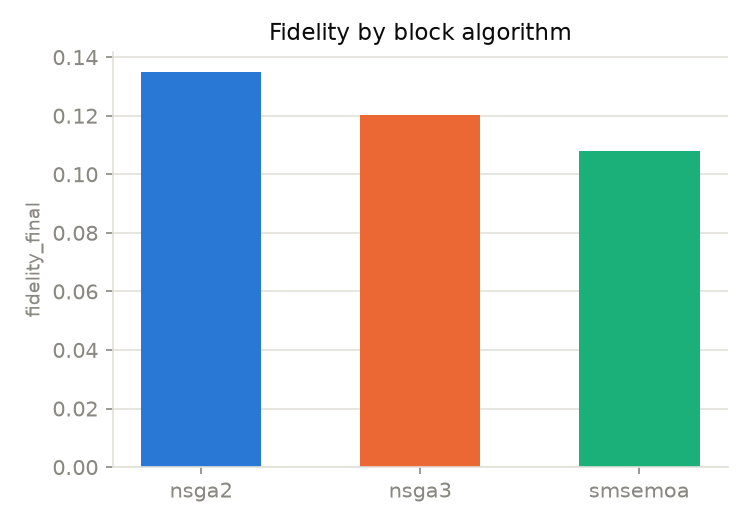
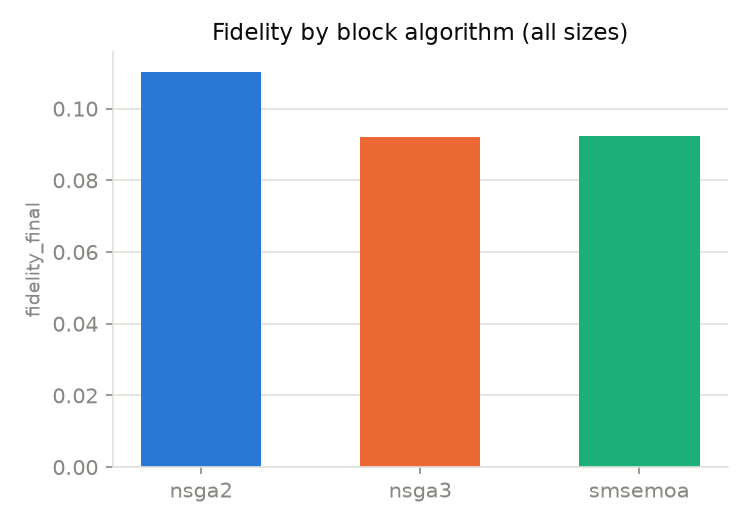
Fix survey overclaims and n=8-only case-study numbers; add all-sizes report
Paper (paper_survey/):
- Drop "State-of-the-art and" from the title.
- Fix overclaims: QMEA excepted from "every method uses NSGA-II crowding
  distance"; "always vs NSGA-II" -> "a classical baseline, usually
  NSGA-II"; remove an unsupported cross-reference and an unsupported
  claim about how the injection bug was found.
- Case-study algorithm table and HV table's pooled row used n=8-only
  values while captioned as the 225-run baseline; replace with true
  all-sizes values, regenerate the three algorithm bar figures, rewrite
  the NSGA-III fair-HV-gap sentence around per-size gaps, correct the
  w_state/qft wall-clock sentence and two rounding slips, and note that
  NSGA-III's cheaper block optimization does not carry over end-to-end.

generate_report.py: ALL_SIZES option for the algorithm-comparison and
fair-HV tables, new algorithm_comparison_all / fair_hv_comparison_all /
algorithm_by_cell tables, all-sizes figures, and --paper-figures-dir to
copy the paper's data-driven figures in one command.

CLAUDE.md / logs.txt / journal.txt: NSGA-III block-opt saving is ~4.5%
post-fix (not ~5-9%); survey draft status brought up to date.

diff --git a/generate_report.py b/generate_report.py
@@ -23,11 +23,14 @@ baseline is reported separately for historical reference.
 Example:
     python generate_report.py
     python generate_report.py --input runs/results_master.csv --out-dir report
+    # also refresh the survey paper's data-driven figures
+    python generate_report.py --paper-figures-dir paper_survey/figures
 """
 from __future__ import annotations
 
 import argparse
 import json
+import shutil
 from pathlib import Path
 
 import matplotlib
@@ -90,16 +93,26 @@ def load_results(path: Path) -> pd.DataFrame:
 # stochastic) -- excluding them here is required, not just a default, or the
 # ablation tables silently pool two different qubit counts into one mean.
 BASELINE_N_QUBITS = 8
+# Pass as n_qubits to the algorithm-comparison/fair-HV tables to pool every size in
+# run_sweep.CIRCUIT_QUBIT_SIZES (each family at its own grid, e.g. qaoa_maxcut tops out
+# at 16, the rest at 20) -- this is the "225-run core baseline" the survey paper's
+# case-study tables/figures report, as opposed to the n=8-only BASELINE_N_QUBITS slice.
+ALL_SIZES = None
+
+
+def _size_mask(df: pd.DataFrame, n_qubits) -> pd.Series:
+    return pd.Series(True, index=df.index) if n_qubits is ALL_SIZES else df["n_qubits"] == n_qubits
 
 
 # ---------------------------------------------------------------------------
 # Tables
 # ---------------------------------------------------------------------------
 
-def table_algorithm_comparison(df: pd.DataFrame, n_qubits: int = BASELINE_N_QUBITS) -> pd.DataFrame:
-    """NSGA-II vs SMS-EMOA vs NSGA-III at baseline settings (point mutation, no hybrid LAS)."""
+def table_algorithm_comparison(df: pd.DataFrame, n_qubits=BASELINE_N_QUBITS) -> pd.DataFrame:
+    """NSGA-II vs SMS-EMOA vs NSGA-III at baseline settings (point mutation, no hybrid LAS).
+    n_qubits=ALL_SIZES pools every qubit count instead of one slice."""
     baseline = df[
-        (df["n_qubits"] == n_qubits)
+        _size_mask(df, n_qubits)
         & (~df["is_legacy_schema"])
         & (df["mutation_scheme"] == "point")
         & (df["hybrid_las"] == False)
@@ -113,6 +126,7 @@ def table_algorithm_comparison(df: pd.DataFrame, n_qubits: int = BASELINE_N_QUBI
         mean_hv=("mean_hv", "mean"),
         total_n_pareto=("total_n_pareto", "mean"),
         wall_clock_s=("wall_clock_s", "mean"),
+        stage_block_optimization_s=("stage_block_optimization_s", "mean"),
     ).reset_index()
     return g
 
@@ -139,7 +153,7 @@ def _normalize_shared(costs: np.ndarray, f_min: np.ndarray, f_max: np.ndarray) -
 
 
 def _pooled_fair_hv_rows(runs_dir: Path, mutation_scheme: str, hybrid_las: bool,
-                          n_qubits: int = BASELINE_N_QUBITS) -> list:
+                          n_qubits=BASELINE_N_QUBITS) -> list:
     """Core fair-HV pooling logic for one (mutation_scheme, hybrid_las) combination --
     returns one row per (circuit, seed, block, block_algorithm), computed from raw
     Pareto-front points (metrics.json's front_raw field, added 2026-08-28 specifically to
@@ -156,18 +170,24 @@ def _pooled_fair_hv_rows(runs_dir: Path, mutation_scheme: str, hybrid_las: bool,
     algorithm's HV against the one shared FAIR_HV_REF_POINT. Shared by all three fair-HV
     tables below (baseline, mutation ablation, hybrid-LAS ablation) -- each just picks
     which (mutation_scheme, hybrid_las) combinations to pool over.
+
+    n_qubits=ALL_SIZES repeats this for each size in that circuit's own
+    run_sweep.CIRCUIT_QUBIT_SIZES entry. Normalization is still shared only within one
+    (circuit, n_qubits, seed, block) -- fronts from different sizes are never pooled
+    together, since their blocks are different objects.
     """
     rows = []
     n_mismatched = 0
     for circuit in FAIR_HV_CIRCUITS:
-        for seed in range(FAIR_HV_N_SEEDS):
+        sizes = _run_sweep.CIRCUIT_QUBIT_SIZES[circuit] if n_qubits is ALL_SIZES else [n_qubits]
+        for n, seed in ((n, s) for n in sizes for s in range(FAIR_HV_N_SEEDS)):
             per_algo_blocks = {}
             fidelity_settings = (
-                _run_sweep.CIRCUIT_FIDELITY_SETTINGS.get(circuit, {}) if n_qubits > 13 else {}
+                _run_sweep.CIRCUIT_FIDELITY_SETTINGS.get(circuit, {}) if n > 13 else {}
             )
             for algo in FAIR_HV_ALGORITHMS:
                 run_id = _run_sweep.run_id_for({
-                    "circuit": circuit, "n_qubits": n_qubits, "injection_method": "stochastic",
+                    "circuit": circuit, "n_qubits": n, "injection_method": "stochastic",
                     "block_algorithm": algo, "mutation_scheme": mutation_scheme,
                     "hybrid_las": hybrid_las, "generations": 100, "pop_size": 100, "seed": seed,
                     "fidelity_exact_threshold": None, "injection_fidelity_exact_threshold": None,
@@ -197,7 +217,8 @@ def _pooled_fair_hv_rows(runs_dir: Path, mutation_scheme: str, hybrid_las: bool,
                 f_min, f_max = pooled.min(axis=0), pooled.max(axis=0)
                 for algo, costs in per_algo_costs.items():
                     hv = _PymooHV(ref_point=FAIR_HV_REF_POINT)(_normalize_shared(costs, f_min, f_max))
-                    rows.append({"circuit": circuit, "seed": seed, "block": b, "block_algorithm": algo,
+                    rows.append({"circuit": circuit, "n_qubits": n, "seed": seed, "block": b,
+                                 "block_algorithm": algo,
                                  "mutation_scheme": mutation_scheme, "hybrid_las": hybrid_las, "fair_hv": hv})
     if n_mismatched:
         print(f"⚠ fair_hv pooling (mutation_scheme={mutation_scheme}, hybrid_las={hybrid_las}): "
@@ -209,18 +230,46 @@ def _aggregate_fair_hv(rows: list, group_cols: list) -> pd.DataFrame:
     detail = pd.DataFrame(rows)
     if detail.empty:
         return pd.DataFrame(columns=group_cols + ["n_runs", "fair_mean_hv"])
-    per_run = detail.groupby(["circuit", "seed"] + group_cols)["fair_hv"].mean().reset_index()
+    run_keys = ["circuit", "n_qubits", "seed"]
+    per_run = detail.groupby(run_keys + [c for c in group_cols if c not in run_keys])["fair_hv"].mean().reset_index()
     return per_run.groupby(group_cols).agg(
         n_runs=("fair_hv", "count"),
         fair_mean_hv=("fair_hv", "mean"),
     ).reset_index()
 
 
-def table_fair_hv_comparison(runs_dir: Path, n_qubits: int = BASELINE_N_QUBITS) -> pd.DataFrame:
+def table_fair_hv_comparison(runs_dir: Path, n_qubits=BASELINE_N_QUBITS) -> pd.DataFrame:
     """Fair (shared fixed reference point) hypervolume at the baseline settings --
     mirrors table_algorithm_comparison's filter, see _pooled_fair_hv_rows' docstring."""
     rows = _pooled_fair_hv_rows(runs_dir, mutation_scheme="point", hybrid_las=False, n_qubits=n_qubits)
     return _aggregate_fair_hv(rows, ["block_algorithm"])
+
+
+def table_algorithm_by_cell(df: pd.DataFrame, runs_dir: Path) -> pd.DataFrame:
+    """Per (circuit, n_qubits, block_algorithm) cell of the all-sizes baseline: mean
+    fidelity_final, block-optimization wall-clock, adaptive and fair HV, plus which
+    algorithm wins each circuit x size cell on fidelity -- the per-cell numbers behind the
+    survey paper's "cells won" column, NSGA-III-vs-NSGA-II wall-clock comparison, and
+    per-size fair-HV gap."""
+    baseline = df[
+        (~df["is_legacy_schema"])
+        & (df["mutation_scheme"] == "point")
+        & (df["hybrid_las"] == False)
+        & (df["injection_method"] == "stochastic")
+    ]
+    keys = ["circuit", "n_qubits", "block_algorithm"]
+    g = baseline.groupby(keys).agg(
+        n_runs=("run_id", "count"),
+        fidelity_final=("fidelity_final", "mean"),
+        stage_block_optimization_s=("stage_block_optimization_s", "mean"),
+        mean_hv=("mean_hv", "mean"),
+    ).reset_index()
+    fair = _aggregate_fair_hv(
+        _pooled_fair_hv_rows(runs_dir, mutation_scheme="point", hybrid_las=False, n_qubits=ALL_SIZES), keys)
+    g = g.merge(fair.drop(columns="n_runs"), on=keys, how="left")
+    best = g.groupby(["circuit", "n_qubits"])["fidelity_final"].transform("max")
+    g["wins_fidelity_cell"] = g["fidelity_final"] == best
+    return g.sort_values(keys)
 
 
 def table_fair_hv_mutation_ablation(runs_dir: Path, n_qubits: int = BASELINE_N_QUBITS) -> pd.DataFrame:
@@ -406,6 +455,10 @@ def main(argv=None):
                     help="Used only by the fair-HV tables (table_fair_hv_comparison/"
                          "_mutation_ablation/_hybrid_las_ablation), which read metrics.json "
                          "files directly for their raw Pareto-front points.")
+    p.add_argument("--paper-figures-dir", default=None, type=Path,
+                    help="If set (e.g. paper_survey/figures), also copy the all-sizes algorithm "
+                         "figures and the scaling figures there under the file names the survey "
+                         "paper's \\includegraphics calls use (see PAPER_FIGURES).")
     args = p.parse_args(argv)
 
     if not args.input.exists():
@@ -421,6 +474,11 @@ def main(argv=None):
     tables = {
         "algorithm_comparison": table_algorithm_comparison(df),
         "fair_hv_comparison": table_fair_hv_comparison(args.runs_dir),
+        # All-sizes pooled versions (every family at its own run_sweep.CIRCUIT_QUBIT_SIZES
+        # grid) -- what the survey paper's case-study tables/figures report.
+        "algorithm_comparison_all": table_algorithm_comparison(df, n_qubits=ALL_SIZES),
+        "fair_hv_comparison_all": table_fair_hv_comparison(args.runs_dir, n_qubits=ALL_SIZES),
+        "algorithm_by_cell": table_algorithm_by_cell(df, args.runs_dir),
         # n=12 algorithm comparison (added alongside n=12 mutation/hybrid-LAS coverage,
         # see logs.txt's "SCALING VERIFICATION: NSGA-III/SMS-EMOA AT n=12 AND FAMILY
         # CEILINGS" -- these numbers previously only existed as a hand-built table there).
@@ -473,6 +531,16 @@ def main(argv=None):
         fair_hv = tables["fair_hv_comparison"].set_index("block_algorithm")["fair_mean_hv"]
         fig_bar(fair_hv, title="Hypervolume (fair: shared fixed reference point)",
                 ylabel="fair_mean_hv", out_path=figures_dir / "algorithm_hypervolume_fair.png")
+
+    algo_all = tables["algorithm_comparison_all"].set_index("block_algorithm")
+    fig_bar(algo_all["fidelity_final"], title="Fidelity by block algorithm (all sizes)",
+            ylabel="fidelity_final", out_path=figures_dir / "algorithm_fidelity_all.png")
+    fig_bar(algo_all["mean_hv"], title="Hypervolume (adaptive per-run reference --\nnot comparable across algorithms)",
+            ylabel="mean_hv", out_path=figures_dir / "algorithm_hypervolume_adaptive_all.png")
+    if not tables["fair_hv_comparison_all"].empty:
+        fair_hv_all = tables["fair_hv_comparison_all"].set_index("block_algorithm")["fair_mean_hv"]
+        fig_bar(fair_hv_all, title="Hypervolume (fair: shared fixed reference point)",
+                ylabel="fair_mean_hv", out_path=figures_dir / "algorithm_hypervolume_fair_all.png")
 
     algo_n12 = tables["algorithm_comparison_n12"].set_index("block_algorithm")
     if not algo_n12.empty:
@@ -545,7 +613,25 @@ def main(argv=None):
 
     print(f"✅ Wrote {len(tables)} tables -> {tables_dir}/ (+ summary.md)")
     print(f"✅ Wrote {len(list(figures_dir.glob('*.png')))} figures -> {figures_dir}/")
+
+    if args.paper_figures_dir is not None:
+        args.paper_figures_dir.mkdir(parents=True, exist_ok=True)
+        for src, dst in PAPER_FIGURES.items():
+            shutil.copyfile(figures_dir / src, args.paper_figures_dir / dst)
+        print(f"📎 Copied {len(PAPER_FIGURES)} figures -> {args.paper_figures_dir}/")
     return 0
+
+
+# report/figures/ name -> survey paper (paper_survey/figures/) name. The paper's other
+# figures (circuit drawings, interaction graph, MOO evolution) come from pipeline runs,
+# not from this script.
+PAPER_FIGURES = {
+    "algorithm_fidelity_all.png": "algorithm_fidelity.png",
+    "algorithm_hypervolume_adaptive_all.png": "algorithm_hypervolume_adaptive.png",
+    "algorithm_hypervolume_fair_all.png": "algorithm_hypervolume_fair.png",
+    "scaling_fidelity.png": "scaling_fidelity.png",
+    "scaling_wallclock.png": "scaling_wallclock.png",
+}
 
 
 if __name__ == "__main__":

diff --git a/paper_survey/sections/05_critical_analysis.tex b/paper_survey/sections/05_critical_analysis.tex
@@ -50,7 +50,8 @@ interference, entanglement) framing common in this literature's
 introductions would suggest.
 
 \textbf{Selection and diversity mechanism.} Every method in the
-surveyed set with a confirmed selection mechanism inherits NSGA-II's
+surveyed set with a confirmed selection mechanism, apart from the early
+QMEA's direct Pareto ranking~\citep{kim2006qmea}, inherits NSGA-II's
 crowding distance unmodified
 (Section~\ref{sec:taxonomy:selection}), and none pairs the Q-bit
 representation with NSGA-III's reference-point niching, SPEA2's
@@ -82,8 +83,9 @@ than only its observed bit value). A second, related weakness is
 evaluative rather than architectural: as already noted from
 Table~\ref{tab:feature-comparison-performance}
 (Section~\ref{sec:feature-comparison}), every reported performance claim
-in the surveyed set compares the proposed method against a classical
-NSGA-II baseline, and no two of the surveyed QIEA-MOO methods are
+in the surveyed set that we could confirm compares the proposed method
+against a classical baseline -- NSGA-II in most cases, conventional
+planning approaches in \citet{kumar2026eahqnsga2}'s case -- and no two of the surveyed QIEA-MOO methods are
 benchmarked against each other in the sources gathered for this
 survey; only \citet{olvera2023continuous} compare several QIEA-MOO
 variants side by side, and those are variants the authors themselves
@@ -137,10 +139,9 @@ benchmarking. This survey's own case study offers
 a cautionary illustration of how easily such gaps can hide even inside
 a codebase under active, careful maintenance: two real bugs in its
 inter-block gate injection stage silently distorted every quantitative
-fidelity result reported over several weeks of work, and were only
-caught and fixed once the pipeline's output was checked against a
-specific, otherwise-unremarkable circuit family
-(Section~\ref{sec:case-study:pipeline}). If a reproducibility gap of
+fidelity result reported over several weeks of work before they were
+caught and fixed (Section~\ref{sec:case-study:pipeline}). If a
+reproducibility gap of
 that kind can persist for weeks inside one actively-maintained pipeline
 with its own test suite, the equivalent risk across independently
 authored papers with no shared code and no obligation to re-verify a
@@ -148,8 +149,9 @@ predecessor's numbers before building on them is considerably harder to
 rule out, not easier.
 
 \textbf{Weak benchmarking practices.} The self-comparative-only pattern
-already noted under hybridization above -- every method benchmarked
-against NSGA-II, never against a sibling QIEA-MOO method -- is itself an
+already noted under hybridization above -- methods benchmarked against
+a classical baseline, usually NSGA-II, but not against a sibling
+QIEA-MOO method -- is itself an
 instance of a broader benchmarking weakness: comparisons in this
 literature are typically run against one baseline, on one problem or
 instance, without the kind of multi-seed statistical treatment that
@@ -203,9 +205,9 @@ surfaces a second, sharper instance of the same point: mean
 \texttt{fidelity\_final} \emph{declines} with qubit count for four of
 the five circuit families tested (e.g.\ \texttt{qft}: 0.070 at $n{=}8$,
 0.015 at $n{=}12$, 0.0005 at $n{=}20$; \texttt{hw\_efficient\_ansatz}:
-0.098, 0.020, 0.0004 over the same sizes), while the fifth,
+0.098, 0.020, 0.0003 over the same sizes), while the fifth,
 \texttt{weak\_random}, instead \emph{improves} with qubit count (0.225,
-0.363, 0.375), as Figure~\ref{fig:scaling-fidelity} shows directly. A
+0.362, 0.375), as Figure~\ref{fig:scaling-fidelity} shows directly. A
 single-scale evaluation of any one of these families
 -- exactly the evaluative pattern this subsection has already flagged
 as the norm in the QIEA-MOO literature surveyed above -- would report
@@ -214,8 +216,7 @@ problem instances, let alone across algorithms. We do not attempt to
 adjudicate here whether the declining trend reflects a genuine scaling
 limitation of the pipeline or simply the exact fidelity metric's own
 well-known exponential contraction toward zero for two generically
-different unitaries as $n$ grows
-(Section~\ref{sec:background:quantum}) -- distinguishing the two is
+different unitaries as $n$ grows -- distinguishing the two is
 exactly the kind of question the separate, forthcoming empirical
 results paper is responsible for answering, not this survey.
 

diff --git a/paper_survey/sections/06_case_study.tex b/paper_survey/sections/06_case_study.tex
@@ -196,7 +196,13 @@ implementation defaulting to a cheaper non-dominated-sorting routine
 than the crowding-distance and hand-rolled hypervolume-driven selections
 use -- an implementation detail of this pipeline's current software
 stack, not a general claim that NSGA-III is more efficient than
-NSGA-II as algorithms. This distinction matters because an earlier
+NSGA-II as algorithms. Nor does it carry over to end-to-end cost: mean
+total wall-clock per run is roughly 1.9 times \emph{higher} for NSGA-III
+than for NSGA-II (331s vs.\ 176s; SMS-EMOA 124s), almost entirely
+because of the stages after block optimization on two families at
+$n{=}20$ (\texttt{hw\_efficient\_ansatz} and \texttt{w\_state}), where
+the circuits NSGA-III hands downstream turn out more expensive to
+process. This distinction matters because an earlier
 measurement in this same project once suggested a much larger, roughly
 two-fold advantage for NSGA-III; closer, fresher re-measurement showed
 that figure to be a stale-versus-fresh timing artifact rather than a
@@ -223,9 +229,9 @@ others, only better positioned to catch it once measured twice.
     Per-block optimizer & Mean fidelity\_final & Cells won (/15) &
     Mean block-opt.\ wall-clock (s) & Mean fair HV \\
     \midrule
-    NSGA-II   & 0.135 & 13 & 42.78 & 0.815 \\
-    NSGA-III  & 0.120 & 1  & 40.85 & 0.763 \\
-    SMS-EMOA  & 0.108 & 1  & 43.88 & 0.808 \\
+    NSGA-II   & 0.110 & 13 & 42.78 & 0.808 \\
+    NSGA-III  & 0.092 & 1  & 40.85 & 0.729 \\
+    SMS-EMOA  & 0.092 & 1  & 43.88 & 0.788 \\
     \bottomrule
   \end{tabularx}
 \end{table}
@@ -302,7 +308,7 @@ before computing hypervolume.
     \cmidrule(lr){2-4} \cmidrule(lr){5-7}
     Scale slice & NSGA-II & NSGA-III & SMS-EMOA & NSGA-II & NSGA-III & SMS-EMOA \\
     \midrule
-    All 5 families, all sizes pooled & 0.052 & 0.046 & 0.060 & 0.815 & 0.763 & 0.808 \\
+    All 5 families, all sizes pooled & 0.048 & 0.045 & 0.055 & 0.808 & 0.729 & 0.788 \\
     All 5 families, $n{=}12$ (matched) & 0.050 & 0.045 & 0.054 & 0.812 & 0.736 & 0.808 \\
     \texttt{qaoa\_maxcut} only, its own $n{=}16$ ceiling & 0.024 & 0.030 & 0.028 & 0.810 & 0.593 & 0.739 \\
     \bottomrule
@@ -320,11 +326,11 @@ NSGA-III above SMS-EMOA above NSGA-II -- not a strict reversal of the
 pooled order (SMS-EMOA and NSGA-II swap places relative to a true
 reversal), but NSGA-III still moves from worst to best.
 Fair HV, by contrast, ranks NSGA-II above SMS-EMOA above NSGA-III
-consistently across all three slices, and NSGA-III's disadvantage under
-fair HV widens as problem size grows within a matched comparison (0.763
-pooled, 0.736 at the $n{=}12$ slice matched across all five families,
-0.593 at \texttt{qaoa\_maxcut}'s own $n{=}16$ ceiling) rather than
-narrowing. This is a direct, current demonstration of the risk the
+consistently across all three slices, and NSGA-III's fair-HV gap to
+NSGA-II widens rather than narrows as problem size grows: 0.052 at
+$n{=}8$ and 0.076 at $n{=}12$ (both matched across all five families),
+0.084 at $n{=}20$ (the four families that reach it), and widest, 0.217,
+at \texttt{qaoa\_maxcut}'s own $n{=}16$ ceiling. This is a direct, current demonstration of the risk the
 adaptive-versus-fair distinction warns about: an algorithm-comparison
 conclusion drawn from adaptive HV alone would not just be
 questionable in the abstract, it would flip depending on which slice of

diff --git a/paper_survey/sections/04_feature_comparison.tex b/paper_survey/sections/04_feature_comparison.tex
@@ -177,9 +177,11 @@ returns to.
 
 Read across both tables, two patterns stand out even before the
 critical analysis proper (Section~\ref{sec:critical-analysis}). First,
-every method with a confirmed selection mechanism reuses NSGA-II's
-crowding distance unmodified (Table~\ref{tab:feature-comparison-taxonomy}),
-so any complexity or scalability claim that does exist is really a
+every method with a confirmed selection mechanism other than the early
+QMEA, whose direct Pareto ranking predates the NSGA-II-hybrid
+convention, reuses NSGA-II's crowding distance unmodified
+(Table~\ref{tab:feature-comparison-taxonomy}), so any complexity or
+scalability claim that does exist for those methods is really a
 claim about NSGA-II's own well-studied $O(MN^2)$ non-dominated-sorting
 cost~\citep{deb2002nsga2} plus a low-order quantum-operator overhead --
 none of the surveyed methods has been evaluated against a

diff --git a/paper_survey/sections/07_open_challenges.tex b/paper_survey/sections/07_open_challenges.tex
@@ -120,7 +120,8 @@ Figure~\ref{fig:scaling-wallclock} shows why this remains an open cost
 rather than a solved one: total wall-clock time grows sharply with
 qubit count for four of the five circuit families -- most steeply for
 \texttt{hw\_efficient\_ansatz} (roughly 22s at $n{=}8$ to over 1{,}000s
-at $n{=}20$) and \texttt{qft}, more gently for \texttt{weak\_random} --
+at $n{=}20$) and \texttt{w\_state} (roughly 25s to 900s), more gently
+for \texttt{qft} and \texttt{weak\_random} --
 while \texttt{qaoa\_maxcut} is non-monotonic (26s, 75s, 43s at $n{=}8$,
 $12$, and its own $n{=}16$ ceiling respectively), plausibly an artifact
 of the statevector-backend fidelity settings that

diff --git a/paper_survey/main.tex b/paper_survey/main.tex
@@ -16,8 +16,8 @@
 % tables exactly \textwidth-aligned instead of overflowing the margin.
 \newcolumntype{Y}{>{\centering\arraybackslash}X}
 
-\title{State-of-the-art and Critical Analysis of Quantum-Inspired\\
-Evolutionary Algorithms for Multi-Objective Optimization:\\
+\title{Critical Analysis of Quantum-Inspired Evolutionary Algorithms\\
+for Multi-Objective Optimization:\\
 Taxonomy, Features, and Limitations}
 \author{Olivian-Antonio G\^{\i}lea \and Adrian Florea}
 \date{\today}

diff --git a/CLAUDE.md b/CLAUDE.md
@@ -71,7 +71,7 @@ The full optimization pipeline (`optimise_circuit_pipeline`) is the reference im
 1. **Partitioning** — `louvain_partition` builds a qubit-interaction graph (`build_interaction_graph`, weighted by 2-qubit gate count) and applies Louvain community detection to split qubits into blocks. `multilevel_partition` offers a Metis/Kernighan-Lin recursive alternative for bounding block size. `extract_interblock_gates` captures gates that cross block boundaries so they can be reinjected later.
 2. **Sub-circuit extraction / recomposition** — `extract_subcircuit` pulls out a self-contained, locally-reindexed circuit per block; `recompose_from_blocks` stitches optimized block circuits back into a global circuit in original gate order, preserving inter-block gates unchanged.
 3. **Fidelity metric** — `compute_fidelity` computes the exact operator-overlap fidelity `|Tr(U_circ · U_target^†)| / 2^n` (dense `Operator`, intractable much past ~13 qubits). `safe_fidelity_between_circuits` is the scale-aware version actually used through most of the pipeline: exact below `fidelity_exact_threshold` (default 13), otherwise an approximate Monte-Carlo estimate — either `approximate_gate_fidelity_echo_mc` ("echo-test": same overlap quantity as an older SWAP-test formulation but computed on `n` qubits instead of `2n+1`, no CSWAP-induced entanglement, `--fidelity-echo-*` flags) or, opt-in per circuit family via `approximate_backend`/`--fidelity-approximate-backend`, `approximate_gate_fidelity_statevector_mc` (exact per-sample, no shot noise; much faster for highly-entangled circuits like `qaoa_maxcut`, much slower than the MPS-based echo estimator for low-entanglement families). No backend is auto-selected — pick one per circuit family, same as `injection_method`/`block_algorithm`/`mutation_scheme` below. See `logs.txt`'s "SCALING" section for the full tuning history and current per-family qubit ceilings.
-4. **Intra-block optimization** — pluggable per-block optimizer, selected via `block_algorithm` and dispatched through the `BLOCK_OPTIMIZERS` registry dict (keyed by algorithm name): `optimise_block_nsga2` (DEAP NSGA-II, three objectives: maximize fidelity, minimize transpiled depth, minimize chromosome-length cost), `optimise_block_smsemoa` (hypervolume-driven SMS-EMOA — binary tournament by Pareto rank, environmental selection trims the boundary front by least-hypervolume-loss; hand-rolled in the existing DEAP loop rather than pymoo's `SMSEMOA`, by deliberate choice), and `optimise_block_nsga3` (DEAP's built-in `tools.selNSGA3` reference-point selection, Deb & Jain 2014 — deliberately reuses DEAP's tested implementation rather than the independently hand-rolled version in `NSGA-III/AG_multi_objectifs_NSGA3.ipynb`, whose own point was a from-scratch correctness demonstration, not a block-optimizer candidate). Adding a further MOO algorithm here is: write a function matching the same signature and add one entry to `BLOCK_OPTIMIZERS` — `optimise_circuit_pipeline`'s dispatch, `run_experiment.py`'s `--block-algorithm` choices, and `run_sweep.py`'s `--block-algorithms` choices all key off that registry (the last one can't import it directly — see its own comment — so its choices list needs a matching one-line addition). All three take a `mutation_scheme` (`"point"` / `"swap_add"` / `"swap_add_delete"`, via `mut_swap`/`mut_addition`/`mut_deletion` — the swap schemes make chromosomes variable-length) and an optional `hybrid_las` flag that runs `update_rotation_angles` ("LAS", a finite-difference local search on rotation angles) on the GA's winner afterward. See `logs.txt`'s "CURRENT STATUS OF RESULTS" section for what's currently established: on the post-injection-fix 225-run baseline, `nsga2` reaches the highest `fidelity_final` in most circuit × size cells; `nsga3`'s block-optimization stage is ~5–9% cheaper than `nsga2`'s (an artifact of DEAP's `selNSGA3` defaulting to a cheaper non-dominated sort, not a general NSGA-III efficiency claim — an earlier "half the wall-clock" headline was a measurement artifact and is retracted). The mutation-scheme and hybrid-LAS ablations predate the 2026-09-04 injection-stage bug fix and are superseded until re-run.
+4. **Intra-block optimization** — pluggable per-block optimizer, selected via `block_algorithm` and dispatched through the `BLOCK_OPTIMIZERS` registry dict (keyed by algorithm name): `optimise_block_nsga2` (DEAP NSGA-II, three objectives: maximize fidelity, minimize transpiled depth, minimize chromosome-length cost), `optimise_block_smsemoa` (hypervolume-driven SMS-EMOA — binary tournament by Pareto rank, environmental selection trims the boundary front by least-hypervolume-loss; hand-rolled in the existing DEAP loop rather than pymoo's `SMSEMOA`, by deliberate choice), and `optimise_block_nsga3` (DEAP's built-in `tools.selNSGA3` reference-point selection, Deb & Jain 2014 — deliberately reuses DEAP's tested implementation rather than the independently hand-rolled version in `NSGA-III/AG_multi_objectifs_NSGA3.ipynb`, whose own point was a from-scratch correctness demonstration, not a block-optimizer candidate). Adding a further MOO algorithm here is: write a function matching the same signature and add one entry to `BLOCK_OPTIMIZERS` — `optimise_circuit_pipeline`'s dispatch, `run_experiment.py`'s `--block-algorithm` choices, and `run_sweep.py`'s `--block-algorithms` choices all key off that registry (the last one can't import it directly — see its own comment — so its choices list needs a matching one-line addition). All three take a `mutation_scheme` (`"point"` / `"swap_add"` / `"swap_add_delete"`, via `mut_swap`/`mut_addition`/`mut_deletion` — the swap schemes make chromosomes variable-length) and an optional `hybrid_las` flag that runs `update_rotation_angles` ("LAS", a finite-difference local search on rotation angles) on the GA's winner afterward. See `logs.txt`'s "CURRENT STATUS OF RESULTS" section for what's currently established: on the post-injection-fix 225-run baseline, `nsga2` reaches the highest `fidelity_final` in most circuit × size cells; `nsga3`'s block-optimization stage is ~4.5% cheaper than `nsga2`'s overall (cheaper in 14 of 15 cells, by ~1–12%; an artifact of DEAP's `selNSGA3` defaulting to a cheaper non-dominated sort, not a general NSGA-III efficiency claim — an earlier "half the wall-clock" headline was a measurement artifact and is retracted). The mutation-scheme and hybrid-LAS ablations predate the 2026-09-04 injection-stage bug fix and are superseded until re-run.
 5. **Inter-block gate injection** — re-adds cross-block entanglement lost during block-local optimization. Two interchangeable strategies selected via `injection_method`: `sa_injection` (simulated annealing over an energy combining gate count, depth, crosstalk, fidelity penalty) or `stochastic_injection` (random trial-and-keep-if-fidelity-improves) — both have closed-form/incremental fidelity fast paths now (see `logs.txt` "SCALING"). The existing sa-vs-stochastic comparison predates the 2026-09-04 injection-stage bug fix and is superseded until re-run, so don't cite either as cheaper/better yet. All three injection functions pick candidate block pairs via `_rand_two_blocks(blocks, rng)` — don't reintroduce `blocks[0]`/`blocks[1]` hardcoding (that was one of the two bugs fixed then; the other was `extract_interblock_gates` counting full-width barriers as inter-block gates, now skipped). `fidelity_driven_injection` (greedy complement pass, tunable via `--fidelity-driven-max-trials`) **always runs afterward regardless of `injection_method`**. Post-fix, how often it produces the final circuit grows with `n` (roughly 8–40% of runs at n=8/12, 65–100% at each family's qubit ceiling) — at larger sizes treat it as the dominant stage when reasoning about final fidelity, not the requested `injection_method`.
 6. **Compression** — hand-rolled passes (`cancel_inverse_gates`, `merge_rotations`, `remove_negligible_rotations`, composed in `compress_custom`) plus a standard Qiskit `PassManager` pass (`qiskit_opt_pass` — `Optimize1qGates` + `CommutativeCancellation`) applied at the end.
 7. **Multi-objective quality indicators** — `evaluate_run`/`compute_hv`/`spread_delta`/`compute_spacing`/`compute_epsilon` implement standard MOO metrics (hypervolume, spread, spacing, epsilon indicator, and IGD when a reference Pareto front `P_star` is supplied) used to track convergence quality across generations, not just best-fitness.
